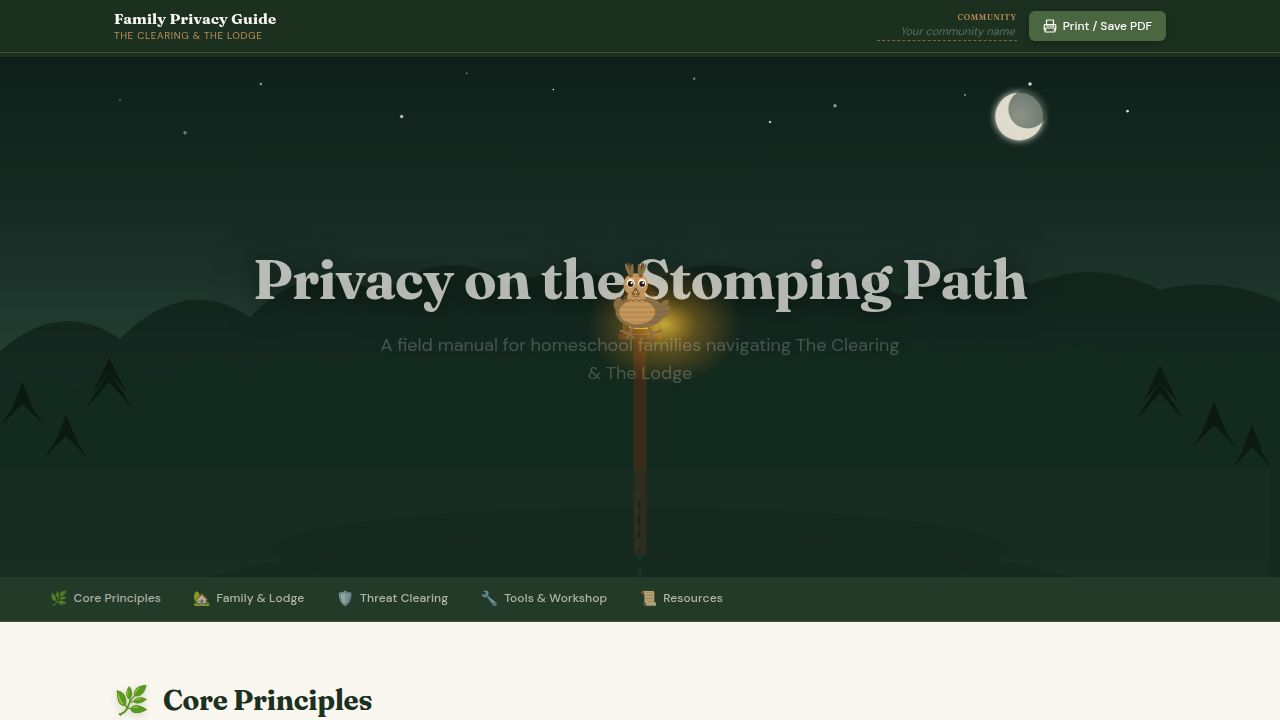
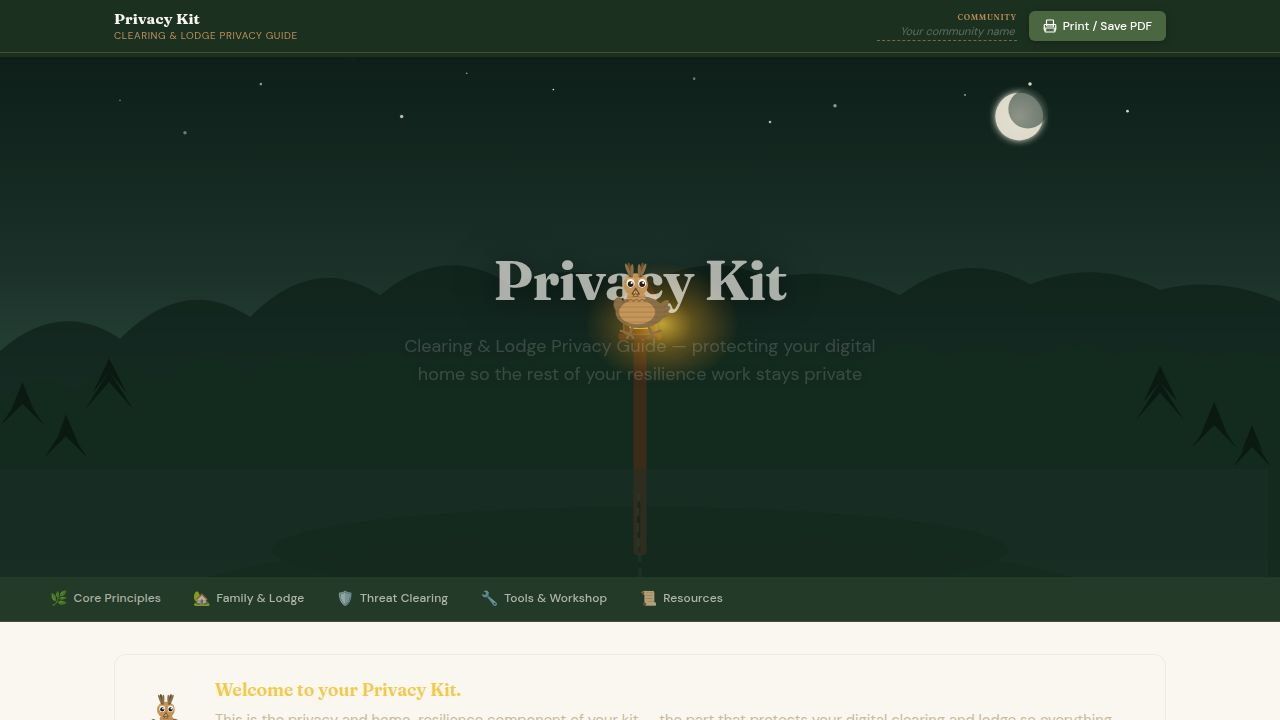
Show community name at top of printed guide
Task #721: Make the printed guide show the community name at the top

## What changed

### artifacts/privacy-guide/src/App.tsx
- Added `communityName` React state (previously the input value was only
  tracked via an uncontrolled ref, making it invisible to the render tree)
- Initialized state from localStorage on mount so it reflects any
  previously saved name on load
- Updated `handleCommunityChange` to sync the new state alongside the
  existing localStorage write
- Added a conditional `<span className="print-header-community">` inside
  the existing `.print-header` element — only rendered when `communityName`
  is non-empty, so the fallback (no extra line) is handled automatically

### artifacts/privacy-guide/src/index.css
- Added `.print-header-community` rule inside `@user print` — larger
  Fraunces serif at 18pt in forest-green, placed above the existing
  guide title line to give the co-op name prominent top billing

## Behaviour
- When a community name is entered: printed page shows the name in large
  text above "Privacy Kit — Clearing & Lodge Privacy Guide"
- When no name is entered: printed page looks exactly as before (no empty
  line, no fallback placeholder text)
- Screen layout is unaffected; the community name input in the header is
  unchanged

Replit-Task-Id: 2cb363c7-eb3e-462e-a57f-0c5fb8782186

diff --git a/artifacts/privacy-guide/src/index.css b/artifacts/privacy-guide/src/index.css
@@ -1164,6 +1164,15 @@ html, body {
     margin-bottom: 16pt;
   }
 
+  .print-header-community {
+    font-family: 'Fraunces', serif;
+    font-size: 18pt;
+    font-weight: 700;
+    color: #1C3020;
+    letter-spacing: -0.01em;
+    margin-bottom: 2pt;
+  }
+
   .print-header-title {
     font-family: 'Fraunces', serif;
     font-size: 14pt;

diff --git a/artifacts/privacy-guide/src/App.tsx b/artifacts/privacy-guide/src/App.tsx
@@ -797,14 +797,17 @@ export default function App() {
   const [sections, setSections] = useState<Record<string, string>>(loadSections);
   const [editingId, setEditingId] = useState<string | null>(null);
   const [gordTipSection, setGordTipSection] = useState<string | null>(null);
+  const [communityName, setCommunityName] = useState<string>("");
 
   useEffect(() => {
     const saved = localStorage.getItem(STORAGE_KEY) || "";
     if (inputRef.current) inputRef.current.value = saved;
+    setCommunityName(saved);
   }, []);
 
   function handleCommunityChange(e: React.ChangeEvent<HTMLInputElement>) {
     localStorage.setItem(STORAGE_KEY, e.target.value);
+    setCommunityName(e.target.value);
   }
 
   const handleSectionSave = useCallback((id: string, html: string) => {
@@ -892,6 +895,9 @@ export default function App() {
 
       {/* ── Print header (shows only on print) ── */}
       <header className="print-header print-only">
+        {communityName && (
+          <span className="print-header-community">{communityName}</span>
+        )}
         <span className="print-header-title">Privacy Kit — Clearing &amp; Lodge Privacy Guide</span>
         <span className="print-header-sub">Homeschool Digital Handbook</span>
       </header>